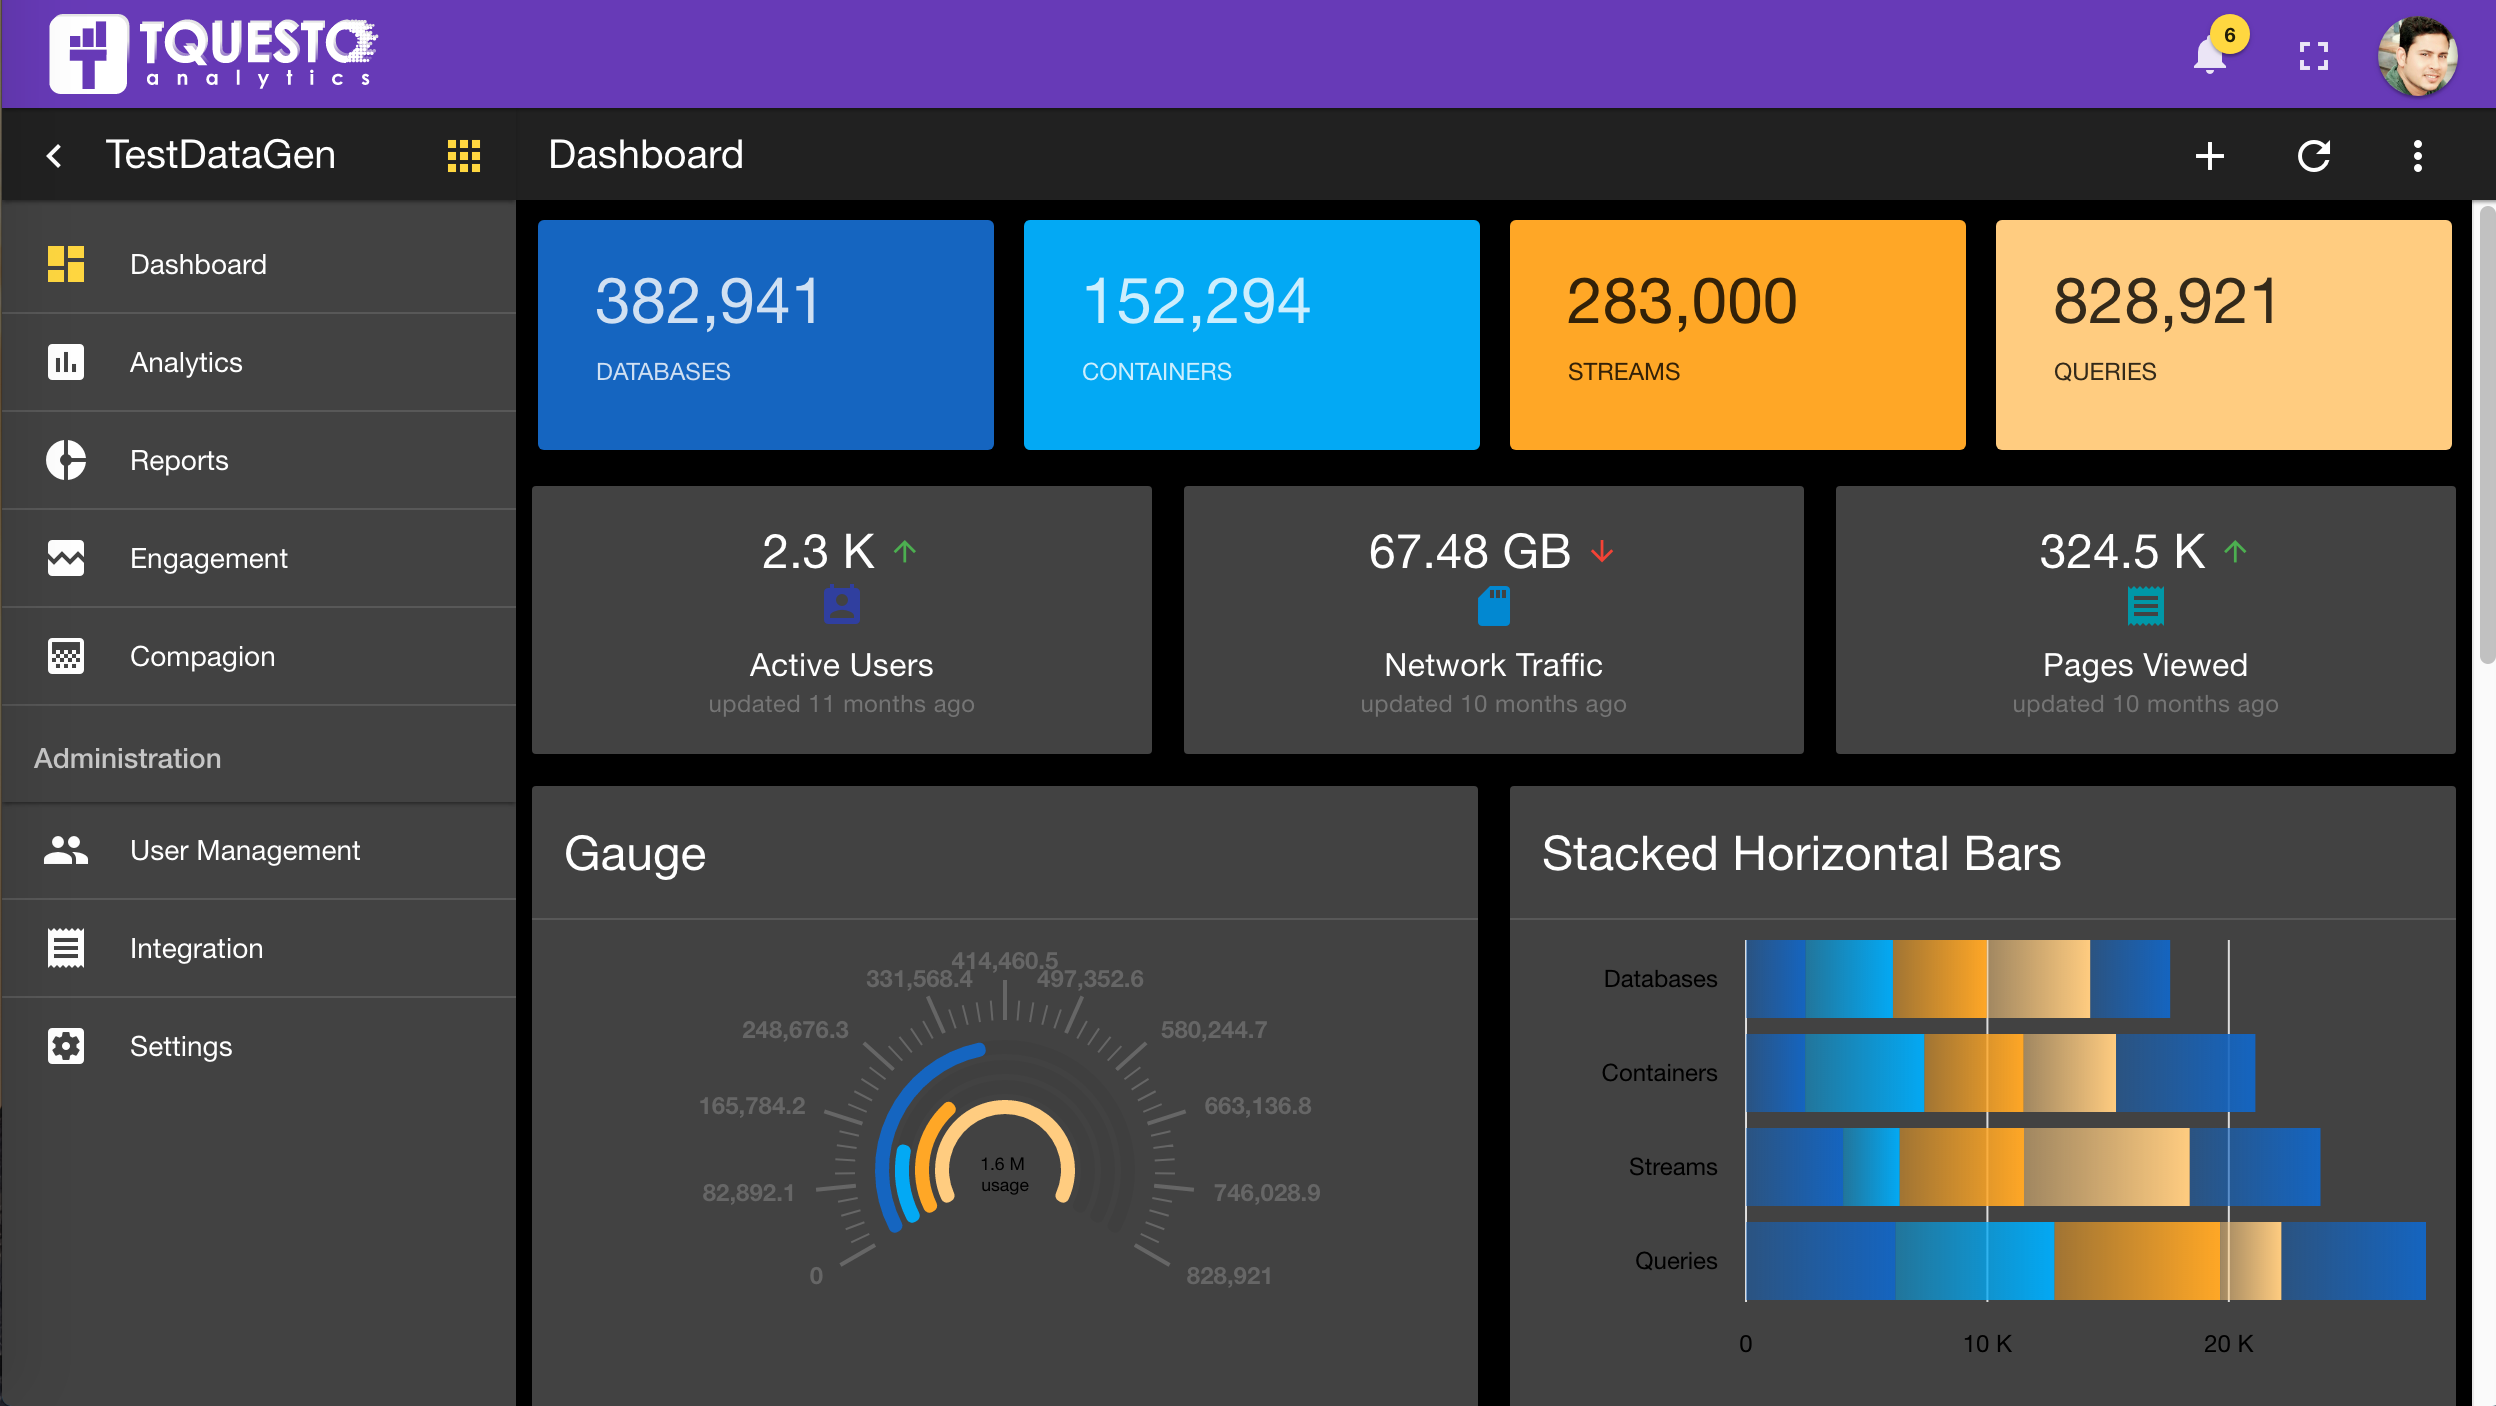
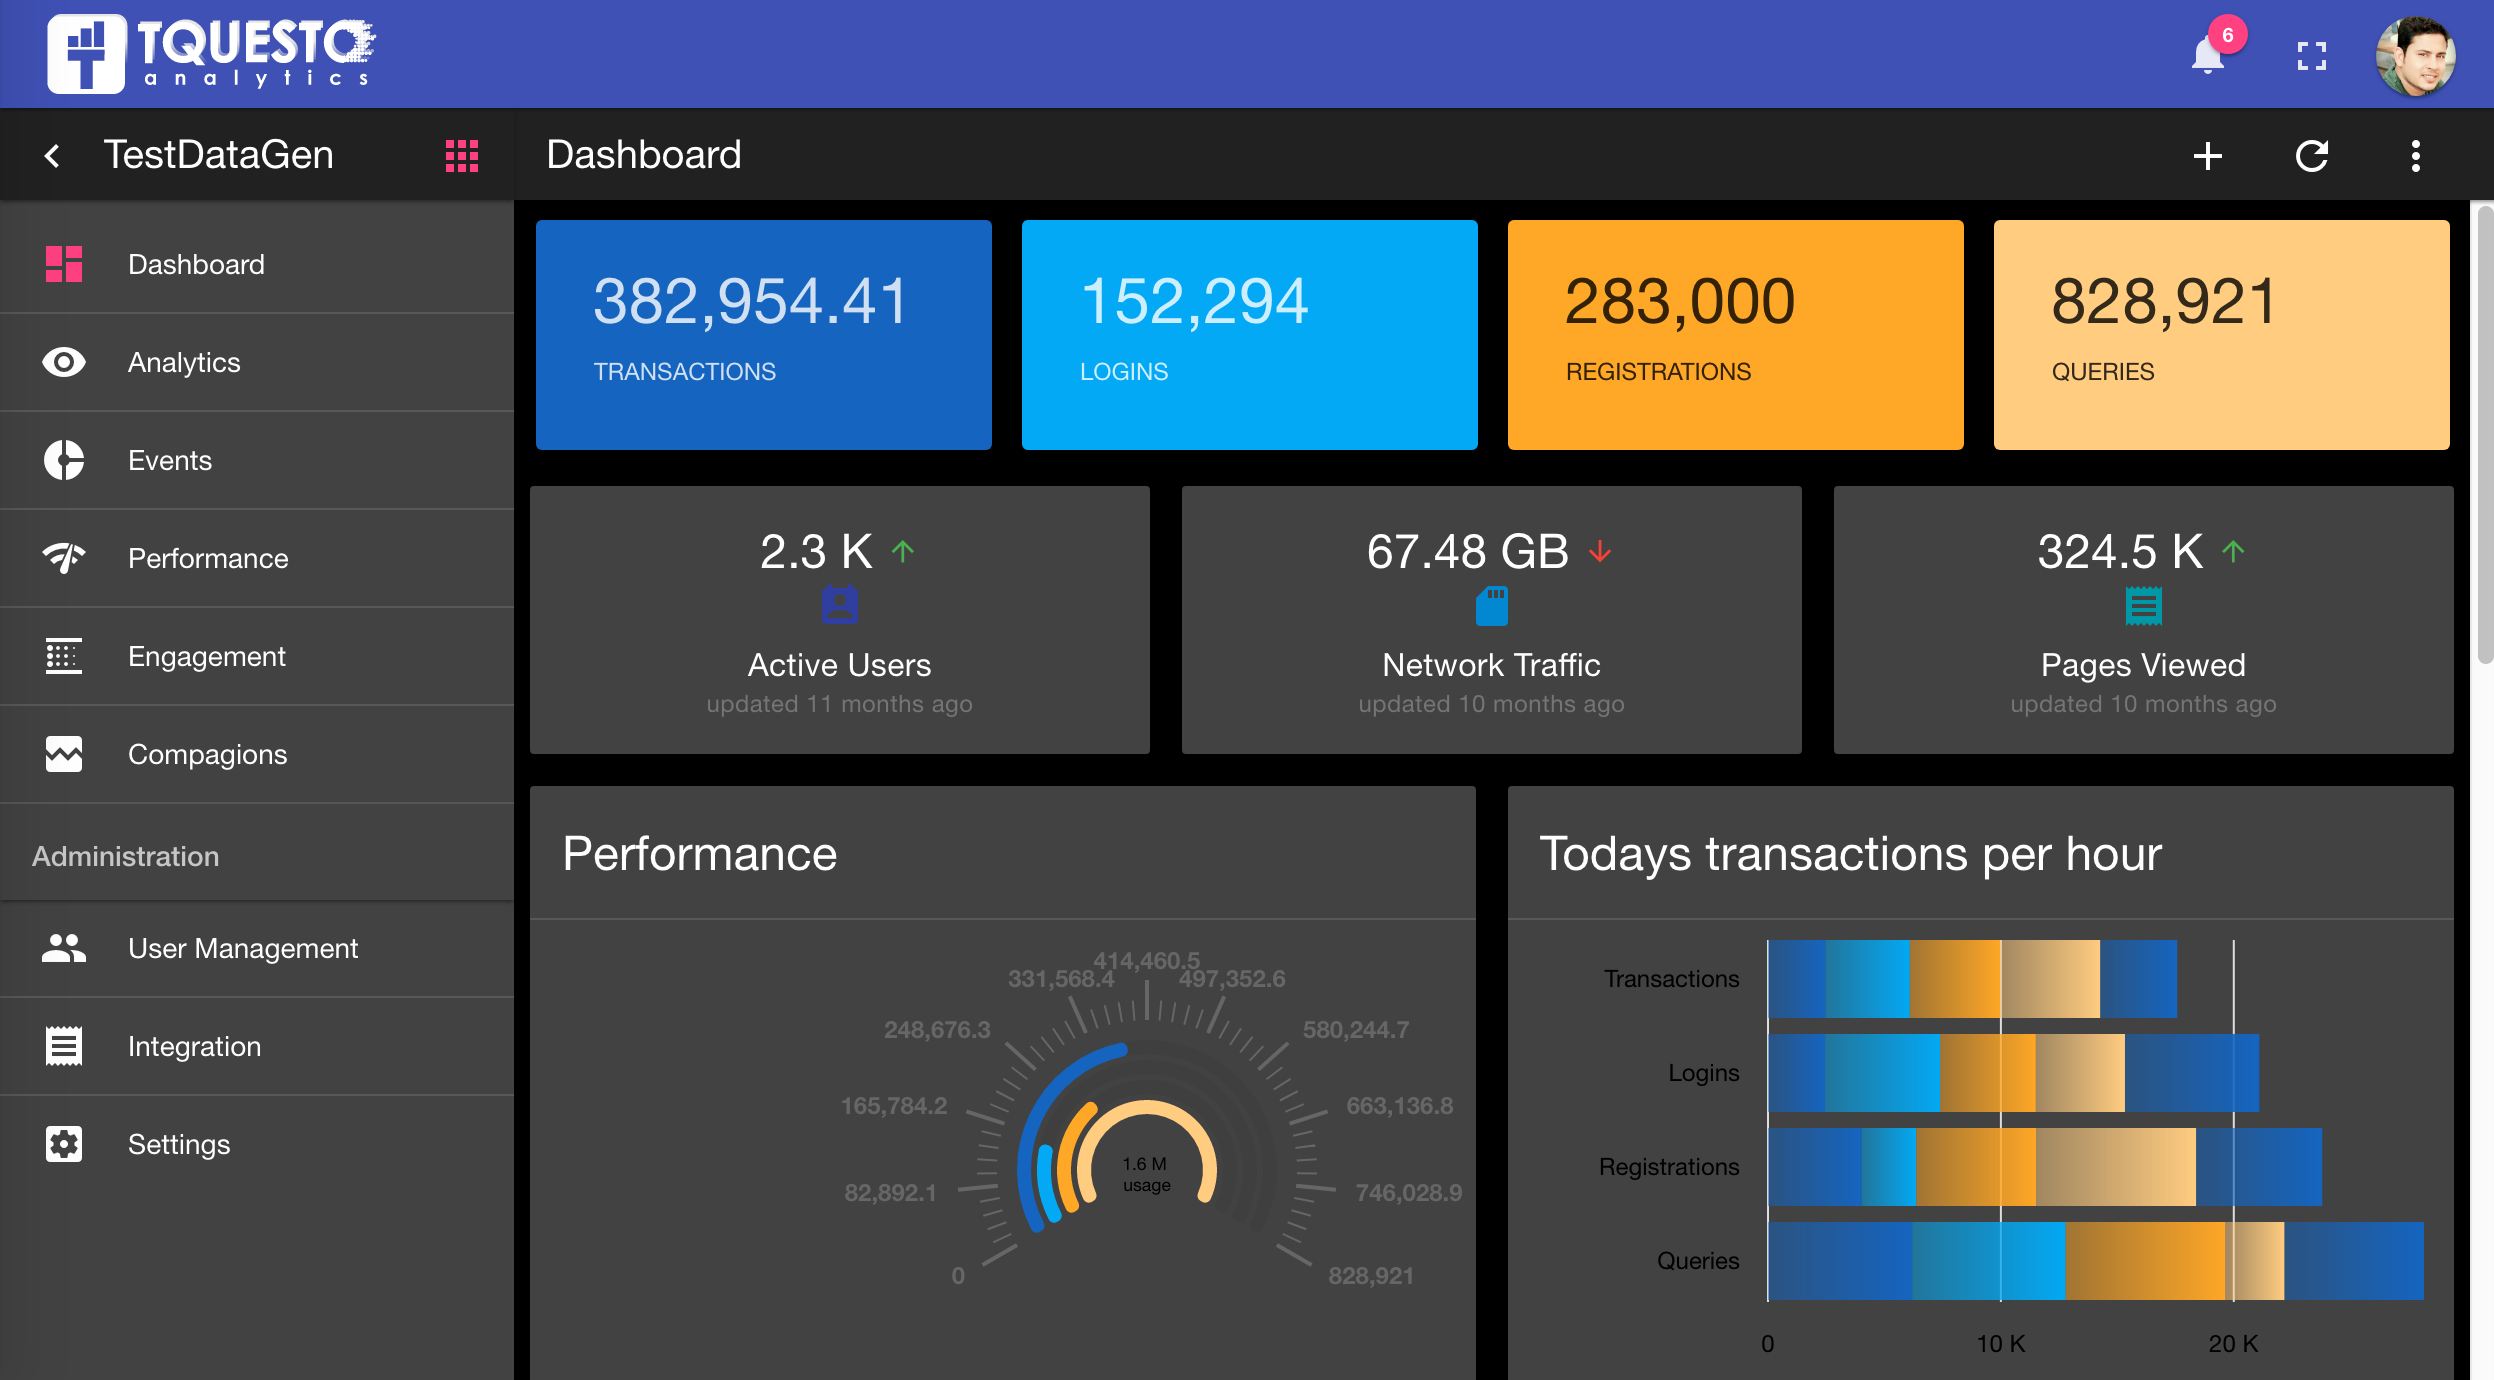
Screenshots upated (#36)

diff --git a/src/app/home/dashboard/dashboard.component.html b/src/app/home/dashboard/dashboard.component.html
@@ -50,7 +50,7 @@
     <div layout-gt-xs="row">
       <div flex-gt-xs="50">
         <md-card>
-          <md-card-title>Gauge</md-card-title>
+          <md-card-title>Performance</md-card-title>
           <md-divider></md-divider>
           <div style="height:250px;">
             <ngx-charts-gauge
@@ -68,7 +68,7 @@
       </div>
       <div flex-gt-xs="50">
         <md-card>
-          <md-card-title>Stacked Horizontal Bars</md-card-title>
+          <md-card-title>Todays transactions per hour</md-card-title>
           <md-divider></md-divider>
           <div style="height:250px;">
             <ngx-charts-bar-horizontal-stacked
@@ -90,7 +90,7 @@
     <div layout-gt-xs="row">
       <div flex-gt-xs="50">
         <md-card>
-          <md-card-title>Vertical Grouped Bars</md-card-title>
+          <md-card-title>Last 7 days page view</md-card-title>
           <md-divider></md-divider>
           <div style="height:250px;">
             <ngx-charts-bar-vertical-2d
@@ -113,7 +113,7 @@
       </div>
       <div flex-gt-xs="50">
         <md-card>
-          <md-card-title>Lines</md-card-title>
+          <md-card-title>Live Users</md-card-title>
           <md-divider></md-divider>
           <div style="height:250px;">
             <ngx-charts-line-chart

diff --git a/src/app/home/dashboard/dashboard.component.ts b/src/app/home/dashboard/dashboard.component.ts
@@ -98,15 +98,15 @@ export class DashboardComponent implements OnInit {
 
 let single: any = [
   {
-    'name': 'Databases',
-    'value': 382941,
+    'name': 'Transactions',
+    'value': 382954.41,
   },
   {
-    'name': 'Containers',
+    'name': 'Logins',
     'value': 152294,
   },
   {
-    'name': 'Streams',
+    'name': 'Registrations',
     'value': 283000,
   },
   {
@@ -117,7 +117,7 @@ let single: any = [
 
 let multi: any = [
   {
-    'name': 'Databases',
+    'name': 'Transactions',
     'series': [
       {
         'value': 2469,
@@ -142,7 +142,7 @@ let multi: any = [
     ],
   },
   {
-    'name': 'Containers',
+    'name': 'Logins',
     'series': [
       {
         'value': 2452,
@@ -167,7 +167,7 @@ let multi: any = [
     ],
   },
   {
-    'name': 'Streams',
+    'name': 'Registrations',
     'series': [
       {
         'value': 4022,

diff --git a/src/app/app.routes.ts b/src/app/app.routes.ts
@@ -33,7 +33,7 @@ const routes: Routes = [
   {path: 'forgotpassword', component: ForgotPasswordComponent},
   {path: 'resetpassword', component: ResetPasswordComponent},
   {path: 'tnc', component: TncComponent},
-  {path: 'home', component: HomeComponent, canActivate: [AuthGuardService], 
+  {path: 'home', component: HomeComponent, canActivate: [AuthGuardService],
     children: [
       {path: '', component: DashboardComponent},
       {path: 'dashboard', component: DashboardComponent},
